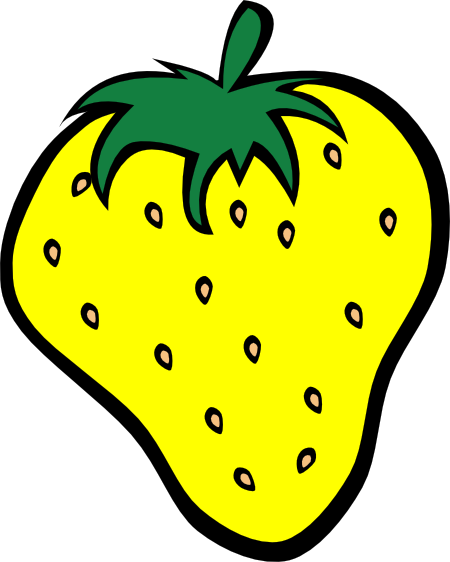
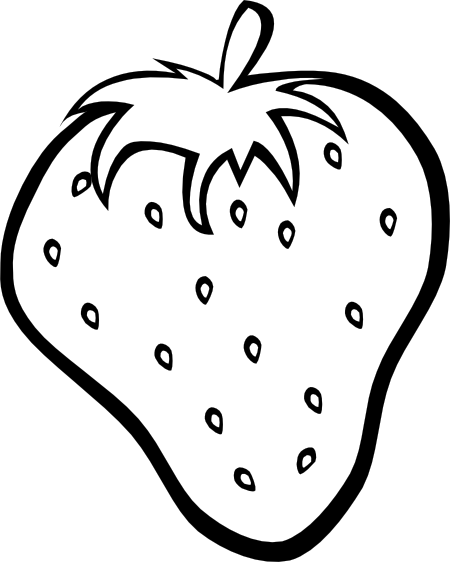
Obtener color de objetos del nivel 2

diff --git a/Classes/Level2Scene.cpp b/Classes/Level2Scene.cpp
@@ -91,7 +91,8 @@ void Level2Scene::setInstructionLabel()
 	GameObject* fruitObject = gameObjectManager.getObject(25);
     std::string fruitName = fruitObject->getName();
 
-    const std::string& instruction = "Touch the red color\n to paint the " + fruitName + "!";
+	setFruitColor();
+    const std::string& instruction = "Touch the "+ fruitColor +"\n to paint the " + fruitName + "!";
 	
 	LabelTTF* label = LabelTTF::create(instruction, "Arial", 45, CCSizeMake(700, 200), kCCTextAlignmentCenter);
 	label->setColor(ccc3(0,25,50));
@@ -114,6 +115,29 @@ void Level2Scene::showFruits()
 	this->addChild(gameObject, 2);
 	gameObject->setEventHandlers();
 }
+
+void Level2Scene::setFruitColor()
+{
+	 GameObject* gameObject = gameObjectManager.getObject(25);
+     std::string fruit = gameObject->getName();
+
+	if( fruit == "banana")
+		fruitColor = "blue color";
+	if( fruit == "grape" )
+		fruitColor = "orange color";
+    if( fruit == "lemon" )
+		fruitColor = "blue color";
+    if( fruit == "orange")	
+		fruitColor = "purple color";
+    if( fruit == "pear")
+        fruitColor = "red color";
+    if( fruit == "strawberry")
+        fruitColor = "yellow";
+    if( fruit == "watermelon")
+        fruitColor = "yellow";
+}
+
+
 
 
 #include "SettingsScene.h"

diff --git a/Classes/Level2Scene.h b/Classes/Level2Scene.h
@@ -58,10 +58,16 @@ private:
 
 	void showFruits();
 
+	void setFruitColor();
+
+	void setRedColorButton();
+
 
 protected:
 
 	GameObjectManager gameObjectManager;
+
+	std::string fruitColor;
 };
 
 #endif // Level2Scene
